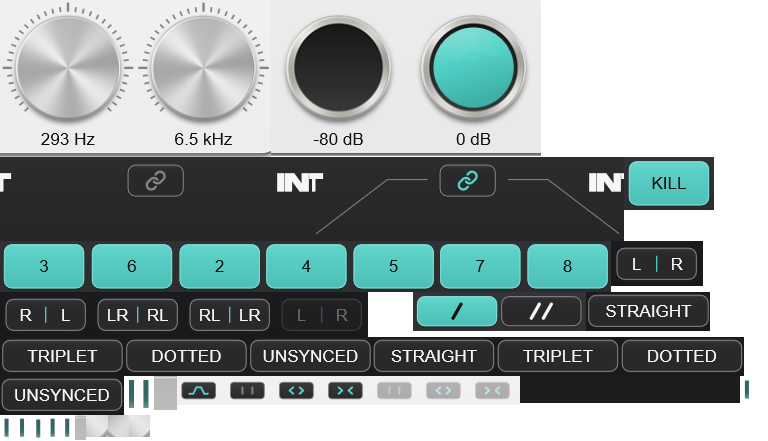
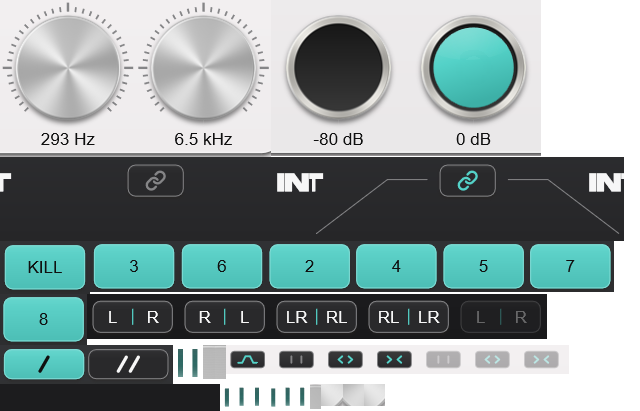
Draw StepDelay timing mode captions and remove their sprites

diff --git a/StepDelay/assets/native.js b/StepDelay/assets/native.js
@@ -1,1 +1,1 @@
-const nativeData = {"bounds":{"single-mode":[230,53,94,43],"dual-mode":[315,53,93,43],"kill":[744,93,94,57],"link":[415,169,69,45],"filter":[1380,167,36,21],"width-spread":[1019,167,36,21],"start-mode":[182,486,134,45],"interval-mode":[584,486,133,45],"echo-order":[403,486,93,45],"theme":[1507,501,39,45],"cycle-1":[62,93,93,57],"cycle-2":[146,93,93,57],"cycle-3":[230,93,94,57],"cycle-4":[315,93,93,57],"cycle-5":[399,93,93,57],"cycle-6":[483,93,94,57],"cycle-7":[568,93,93,57],"cycle-8":[652,93,93,57],"presets":[399,53,322,43],"previous":[708,53,37,28],"next":[708,68,37,28],"open":[744,53,53,43],"save":[784,53,54,43],"hit-sustain":[890,194,135,131],"value-sustain":[895,321,125,25],"hit-width":[1049,194,136,131],"value-width":[1054,321,126,25],"hit-lowCut":[1250,194,136,131],"value-lowCut":[1255,321,126,25],"hit-highCut":[1410,194,135,131],"value-highCut":[1415,321,125,25],"hit-ducking":[969,401,136,130],"value-ducking":[974,527,126,25],"hit-mix":[1330,401,136,130],"value-mix":[1336,527,125,25],"hit-threshold":[1150,401,135,130],"value-threshold":[1155,527,125,25],"hit-start":[149,264,200,200],"hit-interval":[551,264,199,200],"value-start":[186,452,126,25],"value-interval":[588,452,125,25],"cycle1":[65,96,87,51],"cycle2":[149,96,87,51],"cycle3":[233,96,88,51],"cycle4":[318,96,87,51],"cycle5":[402,96,87,51],"cycle6":[486,96,88,51],"cycle7":[571,96,87,51],"cycle8":[655,96,87,51]},"factory":[{"name":"Init Patch","values":{"ducking":0.0,"firstEchoFollowsTime":1.0,"startMode":0.0,"startMs":500.0,"startNote":3.0,"width":100.0,"lowCut":20,"intervalMode":0.0,"intervalMs":500.0,"intervalNote":3.0,"sustain":50.0,"highCut":20000.0,"cycles":1.0,"refresh":0.0,"order":0.0,"filter":0}},{"name":"Baby's First Delay","values":{"intervalMode":0.0,"startMode":0.0,"firstEchoFollowsTime":0.0,"intervalNote":5.0,"startNote":4.0,"intervalMs":500.0,"startMs":500.0,"cycles":4.0,"sustain":68.0,"ducking":68.0,"width":80.0,"highCut":4800.0,"lowCut":280.0,"refresh":1.0,"order":0.0,"filter":1}},{"name":"Battery Powered","values":{"startMode":3.0,"startNote":4.0,"startMs":20.00002861022949,"intervalMode":3.0,"intervalNote":4.0,"intervalMs":20.00002861022949,"cycles":8,"sustain":88.00001525878906,"filter":0.0,"lowCut":20,"highCut":20000.0,"refresh":0.0,"ducking":20.4000244140625,"width":100.0,"order":0.0,"firstEchoFollowsTime":1.0}},{"name":"Bounce 'em","values":{"intervalMode":2.0,"startMode":2.0,"firstEchoFollowsTime":0.0,"intervalNote":4.0,"startNote":3.0,"intervalMs":500.0,"startMs":500.0,"cycles":8,"sustain":68.0,"ducking":50.0,"width":100.0,"highCut":4800.0,"lowCut":280.0,"refresh":1.0,"order":0.0,"filter":1}},{"name":"Branded","values":{"startMode":0.0,"startNote":3.0,"startMs":500.0001220703125,"intervalMode":2.0,"intervalNote":3.0,"intervalMs":200.0002746582031,"cycles":1.0,"sustain":0.0,"filter":0.0,"lowCut":20,"highCut":20000.0,"refresh":1.0,"ducking":28.00002098083496,"width":100.0,"order":0.0,"firstEchoFollowsTime":0.0}},{"name":"Fake Stereo","values":{"startMode":3.0,"startNote":4.0,"startMs":20.00002861022949,"intervalMode":3.0,"intervalNote":0.0,"intervalMs":40.0001220703125,"cycles":1.0,"sustain":100.0,"filter":0.0,"lowCut":20,"highCut":20000.0,"refresh":0.0,"ducking":0.0,"width":100.0,"order":0.0,"firstEchoFollowsTime":0.0}},{"name":"Fill It Up","values":{"startMode":0.0,"startNote":4.0,"startMs":500.0001220703125,"intervalMode":0.0,"intervalNote":5.0,"intervalMs":500.0001220703125,"cycles":4.0,"sustain":80.00001525878906,"filter":1.0,"lowCut":280.0000305175781,"highCut":4000.0,"refresh":1.0,"ducking":60.00001525878906,"width":80.0,"order":1.0,"firstEchoFollowsTime":1.0}},{"name":"Remember to Kill","values":{"startMode":0.0,"startNote":6.0,"startMs":500.0003356933594,"intervalMode":3.0,"intervalNote":4.0,"intervalMs":5000.0,"cycles":1.0,"sustain":100.0,"filter":0.0,"lowCut":20,"highCut":20000.0,"refresh":0.0,"ducking":0.0,"width":0.0,"order":0.0,"firstEchoFollowsTime":0.0}},{"name":"Short and Clean","values":{"startMode":0.0,"startNote":4.0,"startMs":500.0001220703125,"intervalMode":0.0,"intervalNote":4.0,"intervalMs":500.0001220703125,"cycles":2.0,"sustain":80.00001525878906,"filter":1.0,"lowCut":1000.000061035156,"highCut":2800.0,"refresh":1.0,"ducking":80.00001525878906,"width":100.0,"order":0.0,"firstEchoFollowsTime":1.0}},{"name":"Valor's Finest","values":{"startMode":0.0,"startNote":4.0,"startMs":500.0001220703125,"intervalMode":0.0,"intervalNote":4.0,"intervalMs":500.0001220703125,"cycles":4.0,"sustain":60.00001525878906,"filter":1.0,"lowCut":200.0001220703125,"highCut":4000.0,"refresh":1.0,"ducking":80.00001525878906,"width":80.0,"order":0.0,"firstEchoFollowsTime":1.0}}],"layers":{"light":{"lowCutPlate":[0,0,136,157,1250,194],"highCutPlate":[136,0,135,157,1410,194],"threshold0":[271,0,135,156,1150,401],"threshold24":[406,0,135,156,1150,401],"link0":[0,157,312,84,294,168],"link1":[312,157,312,84,294,168],"killOn":[624,157,90,53,746,95],"cycle3":[0,241,88,51,233,96],"cycle6":[88,241,88,51,486,96],"cycle2":[176,241,87,51,149,96],"cycle4":[263,241,87,51,318,96],"cycle5":[350,241,87,51,402,96],"cycle7":[437,241,87,51,571,96],"cycle8":[524,241,87,51,655,96],"order0":[611,241,92,45,404,486],"order1":[0,292,92,45,404,486],"order2":[92,292,92,45,404,486],"order3":[184,292,92,45,404,486],"orderDisabled":[276,292,92,45,404,486],"refreshArrow":[368,292,45,45,-22,-22],"single":[413,292,173,39,233,55],"intervalMode0":[586,292,124,39,588,490],"intervalMode1":[0,337,124,39,588,490],"intervalMode2":[124,337,124,39,588,490],"intervalMode3":[248,337,124,39,588,490],"startMode0":[372,337,124,39,187,490],"startMode1":[496,337,124,39,187,490],"startMode2":[620,337,124,39,187,490],"startMode3":[0,376,124,39,187,490],"intervalMarker":[124,376,15,34,-7,-82],"startMarker":[139,376,15,34,-7,-82],"startPlate":[154,376,12,34,243,283],"intervalPlate":[166,376,11,34,645,283],"filterOn":[177,376,49,29,1376,163],"spread0":[226,376,49,29,1016,163],"spread1":[275,376,49,29,1016,163],"spread2":[324,376,49,29,1016,163],"spreadDisabled0":[373,376,49,29,1016,163],"spreadDisabled1":[422,376,49,29,1016,163],"spreadDisabled2":[471,376,49,29,1016,163],"intervalMsBackground":[520,376,110,27,595,450],"startMsBackground":[630,376,110,27,194,450],"duckingMarker":[740,376,15,26,-7,-53],"highCutMarker":[0,415,15,26,-7,-53],"lowCutMarker":[15,415,15,26,-7,-53],"mixMarker":[30,415,15,26,-7,-53],"sustainMarker":[45,415,15,26,-7,-53],"widthMarker":[60,415,15,26,-7,-53],"sustainPlate":[75,415,11,25,952,209],"widthPlate":[86,415,22,22,1135,279],"duckingPlate":[108,415,21,22,998,486],"mixPlate":[129,415,21,22,1416,486]},"dark":{"lowCutPlate":[0,0,136,157,1250,194],"highCutPlate":[136,0,135,157,1410,194],"threshold0":[0,157,135,156,1150,401],"threshold24":[135,157,135,156,1150,401],"link0":[0,313,312,84,294,168],"link1":[0,397,312,84,294,168],"killOn":[0,481,90,53,746,95],"cycle3":[90,481,88,51,233,96],"cycle6":[178,481,88,51,486,96],"cycle2":[266,481,87,51,149,96],"cycle4":[0,534,87,51,318,96],"cycle5":[87,534,87,51,402,96],"cycle7":[174,534,87,51,571,96],"cycle8":[261,534,87,51,655,96],"order0":[0,585,92,45,404,486],"order1":[92,585,92,45,404,486],"order2":[184,585,92,45,404,486],"order3":[276,585,92,45,404,486],"orderDisabled":[0,630,92,45,404,486],"refreshArrow":[92,630,45,45,-22,-22],"single":[137,630,173,39,233,55],"intervalMode0":[0,675,124,39,588,490],"intervalMode1":[124,675,124,39,588,490],"intervalMode2":[248,675,124,39,588,490],"intervalMode3":[0,714,124,39,588,490],"startMode0":[124,714,124,39,187,490],"startMode1":[248,714,124,39,187,490],"startMode2":[0,753,124,39,187,490],"startMode3":[124,753,124,39,187,490],"intervalMarker":[248,753,15,34,-7,-82],"startMarker":[263,753,15,34,-7,-82],"startPlate":[278,753,12,34,243,283],"intervalPlate":[290,753,11,34,645,283],"filterOn":[301,753,49,29,1376,163],"spread0":[0,792,49,29,1016,163],"spread1":[49,792,49,29,1016,163],"spread2":[98,792,49,29,1016,163],"spreadDisabled0":[147,792,49,29,1016,163],"spreadDisabled1":[196,792,49,29,1016,163],"spreadDisabled2":[245,792,49,29,1016,163],"intervalMsBackground":[0,821,110,27,595,450],"startMsBackground":[110,821,110,27,194,450],"duckingMarker":[220,821,15,26,-7,-53],"highCutMarker":[235,821,15,26,-7,-53],"lowCutMarker":[250,821,15,26,-7,-53],"mixMarker":[265,821,15,26,-7,-53],"sustainMarker":[280,821,15,26,-7,-53],"widthMarker":[295,821,15,26,-7,-53],"sustainPlate":[310,821,11,25,952,209],"mixPlate":[321,821,22,22,1416,486],"widthPlate":[343,821,22,22,1135,279],"duckingPlate":[0,848,21,22,998,486]}},"refreshRotation":{"light":53,"dark":53}};
+const nativeData = {"bounds":{"single-mode":[230,53,94,43],"dual-mode":[315,53,93,43],"kill":[744,93,94,57],"link":[415,169,69,45],"filter":[1380,167,36,21],"width-spread":[1019,167,36,21],"start-mode":[182,486,134,45],"interval-mode":[584,486,133,45],"echo-order":[403,486,93,45],"theme":[1507,501,39,45],"cycle-1":[62,93,93,57],"cycle-2":[146,93,93,57],"cycle-3":[230,93,94,57],"cycle-4":[315,93,93,57],"cycle-5":[399,93,93,57],"cycle-6":[483,93,94,57],"cycle-7":[568,93,93,57],"cycle-8":[652,93,93,57],"presets":[399,53,322,43],"previous":[708,53,37,28],"next":[708,68,37,28],"open":[744,53,53,43],"save":[784,53,54,43],"hit-sustain":[890,194,135,131],"value-sustain":[895,321,125,25],"hit-width":[1049,194,136,131],"value-width":[1054,321,126,25],"hit-lowCut":[1250,194,136,131],"value-lowCut":[1255,321,126,25],"hit-highCut":[1410,194,135,131],"value-highCut":[1415,321,125,25],"hit-ducking":[969,401,136,130],"value-ducking":[974,527,126,25],"hit-mix":[1330,401,136,130],"value-mix":[1336,527,125,25],"hit-threshold":[1150,401,135,130],"value-threshold":[1155,527,125,25],"hit-start":[149,264,200,200],"hit-interval":[551,264,199,200],"value-start":[186,452,126,25],"value-interval":[588,452,125,25],"cycle1":[65,96,87,51],"cycle2":[149,96,87,51],"cycle3":[233,96,88,51],"cycle4":[318,96,87,51],"cycle5":[402,96,87,51],"cycle6":[486,96,88,51],"cycle7":[571,96,87,51],"cycle8":[655,96,87,51]},"factory":[{"name":"Init Patch","values":{"ducking":0.0,"firstEchoFollowsTime":1.0,"startMode":0.0,"startMs":500.0,"startNote":3.0,"width":100.0,"lowCut":20,"intervalMode":0.0,"intervalMs":500.0,"intervalNote":3.0,"sustain":50.0,"highCut":20000.0,"cycles":1.0,"refresh":0.0,"order":0.0,"filter":0}},{"name":"Baby's First Delay","values":{"intervalMode":0.0,"startMode":0.0,"firstEchoFollowsTime":0.0,"intervalNote":5.0,"startNote":4.0,"intervalMs":500.0,"startMs":500.0,"cycles":4.0,"sustain":68.0,"ducking":68.0,"width":80.0,"highCut":4800.0,"lowCut":280.0,"refresh":1.0,"order":0.0,"filter":1}},{"name":"Battery Powered","values":{"startMode":3.0,"startNote":4.0,"startMs":20.00002861022949,"intervalMode":3.0,"intervalNote":4.0,"intervalMs":20.00002861022949,"cycles":8,"sustain":88.00001525878906,"filter":0.0,"lowCut":20,"highCut":20000.0,"refresh":0.0,"ducking":20.4000244140625,"width":100.0,"order":0.0,"firstEchoFollowsTime":1.0}},{"name":"Bounce 'em","values":{"intervalMode":2.0,"startMode":2.0,"firstEchoFollowsTime":0.0,"intervalNote":4.0,"startNote":3.0,"intervalMs":500.0,"startMs":500.0,"cycles":8,"sustain":68.0,"ducking":50.0,"width":100.0,"highCut":4800.0,"lowCut":280.0,"refresh":1.0,"order":0.0,"filter":1}},{"name":"Branded","values":{"startMode":0.0,"startNote":3.0,"startMs":500.0001220703125,"intervalMode":2.0,"intervalNote":3.0,"intervalMs":200.0002746582031,"cycles":1.0,"sustain":0.0,"filter":0.0,"lowCut":20,"highCut":20000.0,"refresh":1.0,"ducking":28.00002098083496,"width":100.0,"order":0.0,"firstEchoFollowsTime":0.0}},{"name":"Fake Stereo","values":{"startMode":3.0,"startNote":4.0,"startMs":20.00002861022949,"intervalMode":3.0,"intervalNote":0.0,"intervalMs":40.0001220703125,"cycles":1.0,"sustain":100.0,"filter":0.0,"lowCut":20,"highCut":20000.0,"refresh":0.0,"ducking":0.0,"width":100.0,"order":0.0,"firstEchoFollowsTime":0.0}},{"name":"Fill It Up","values":{"startMode":0.0,"startNote":4.0,"startMs":500.0001220703125,"intervalMode":0.0,"intervalNote":5.0,"intervalMs":500.0001220703125,"cycles":4.0,"sustain":80.00001525878906,"filter":1.0,"lowCut":280.0000305175781,"highCut":4000.0,"refresh":1.0,"ducking":60.00001525878906,"width":80.0,"order":1.0,"firstEchoFollowsTime":1.0}},{"name":"Remember to Kill","values":{"startMode":0.0,"startNote":6.0,"startMs":500.0003356933594,"intervalMode":3.0,"intervalNote":4.0,"intervalMs":5000.0,"cycles":1.0,"sustain":100.0,"filter":0.0,"lowCut":20,"highCut":20000.0,"refresh":0.0,"ducking":0.0,"width":0.0,"order":0.0,"firstEchoFollowsTime":0.0}},{"name":"Short and Clean","values":{"startMode":0.0,"startNote":4.0,"startMs":500.0001220703125,"intervalMode":0.0,"intervalNote":4.0,"intervalMs":500.0001220703125,"cycles":2.0,"sustain":80.00001525878906,"filter":1.0,"lowCut":1000.000061035156,"highCut":2800.0,"refresh":1.0,"ducking":80.00001525878906,"width":100.0,"order":0.0,"firstEchoFollowsTime":1.0}},{"name":"Valor's Finest","values":{"startMode":0.0,"startNote":4.0,"startMs":500.0001220703125,"intervalMode":0.0,"intervalNote":4.0,"intervalMs":500.0001220703125,"cycles":4.0,"sustain":60.00001525878906,"filter":1.0,"lowCut":200.0001220703125,"highCut":4000.0,"refresh":1.0,"ducking":80.00001525878906,"width":80.0,"order":0.0,"firstEchoFollowsTime":1.0}}],"layers":{"light":{"lowCutPlate":[0,0,136,157,1250,194],"highCutPlate":[136,0,135,157,1410,194],"threshold0":[271,0,135,156,1150,401],"threshold24":[406,0,135,156,1150,401],"link0":[0,157,312,84,294,168],"link1":[312,157,312,84,294,168],"killOn":[0,241,90,53,746,95],"cycle3":[90,241,88,51,233,96],"cycle6":[178,241,88,51,486,96],"cycle2":[266,241,87,51,149,96],"cycle4":[353,241,87,51,318,96],"cycle5":[440,241,87,51,402,96],"cycle7":[527,241,87,51,571,96],"cycle8":[0,294,87,51,655,96],"order0":[87,294,92,45,404,486],"order1":[179,294,92,45,404,486],"order2":[271,294,92,45,404,486],"order3":[363,294,92,45,404,486],"orderDisabled":[455,294,92,45,404,486],"refreshArrow":[547,294,45,45,-22,-22],"single":[0,345,173,39,233,55],"intervalMarker":[173,345,15,34,-7,-82],"startMarker":[188,345,15,34,-7,-82],"startPlate":[203,345,12,34,243,283],"intervalPlate":[215,345,11,34,645,283],"filterOn":[226,345,49,29,1376,163],"spread0":[275,345,49,29,1016,163],"spread1":[324,345,49,29,1016,163],"spread2":[373,345,49,29,1016,163],"spreadDisabled0":[422,345,49,29,1016,163],"spreadDisabled1":[471,345,49,29,1016,163],"spreadDisabled2":[520,345,49,29,1016,163],"intervalMsBackground":[0,384,110,27,595,450],"startMsBackground":[110,384,110,27,194,450],"duckingMarker":[220,384,15,26,-7,-53],"highCutMarker":[235,384,15,26,-7,-53],"lowCutMarker":[250,384,15,26,-7,-53],"mixMarker":[265,384,15,26,-7,-53],"sustainMarker":[280,384,15,26,-7,-53],"widthMarker":[295,384,15,26,-7,-53],"sustainPlate":[310,384,11,25,952,209],"widthPlate":[321,384,22,22,1135,279],"duckingPlate":[343,384,21,22,998,486],"mixPlate":[364,384,21,22,1416,486]},"dark":{"lowCutPlate":[0,0,136,157,1250,194],"highCutPlate":[136,0,135,157,1410,194],"threshold0":[0,157,135,156,1150,401],"threshold24":[135,157,135,156,1150,401],"link0":[0,313,312,84,294,168],"link1":[0,397,312,84,294,168],"killOn":[0,481,90,53,746,95],"cycle3":[90,481,88,51,233,96],"cycle6":[178,481,88,51,486,96],"cycle2":[266,481,87,51,149,96],"cycle4":[0,534,87,51,318,96],"cycle5":[87,534,87,51,402,96],"cycle7":[174,534,87,51,571,96],"cycle8":[261,534,87,51,655,96],"order0":[0,585,92,45,404,486],"order1":[92,585,92,45,404,486],"order2":[184,585,92,45,404,486],"order3":[276,585,92,45,404,486],"orderDisabled":[0,630,92,45,404,486],"refreshArrow":[92,630,45,45,-22,-22],"single":[137,630,173,39,233,55],"intervalMarker":[310,630,15,34,-7,-82],"startMarker":[325,630,15,34,-7,-82],"startPlate":[340,630,12,34,243,283],"intervalPlate":[352,630,11,34,645,283],"filterOn":[0,675,49,29,1376,163],"spread0":[49,675,49,29,1016,163],"spread1":[98,675,49,29,1016,163],"spread2":[147,675,49,29,1016,163],"spreadDisabled0":[196,675,49,29,1016,163],"spreadDisabled1":[245,675,49,29,1016,163],"spreadDisabled2":[294,675,49,29,1016,163],"intervalMsBackground":[0,704,110,27,595,450],"startMsBackground":[110,704,110,27,194,450],"duckingMarker":[220,704,15,26,-7,-53],"highCutMarker":[235,704,15,26,-7,-53],"lowCutMarker":[250,704,15,26,-7,-53],"mixMarker":[265,704,15,26,-7,-53],"sustainMarker":[280,704,15,26,-7,-53],"widthMarker":[295,704,15,26,-7,-53],"sustainPlate":[310,704,11,25,952,209],"mixPlate":[321,704,22,22,1416,486],"widthPlate":[343,704,22,22,1135,279],"duckingPlate":[0,731,21,22,998,486]}},"refreshRotation":{"light":53,"dark":53}};

diff --git a/StepDelay/demo.js b/StepDelay/demo.js
@@ -132,7 +132,8 @@ function drawTiming(set, side, mode, value) {
     context.fillStyle = selected ? colorDefault : "#f7f7f7";
     context.fillText((mode === 3 ? millisecondLegends : notes[mode])[i], x, cy + 1);
   }
-  patch(set, side + "Mode" + mode);
+  const captionX = side === "interval" ? 595 : 194;
+  paintValue([captionX, 499, 110, 20], modeLabels[mode].toUpperCase(), "#f7f7f7");
   if (mode === 3) {
     patch(set, side + "MsBackground");
     paintValue(bounds["value-" + side], format(side, value), "#f7f7f7");
